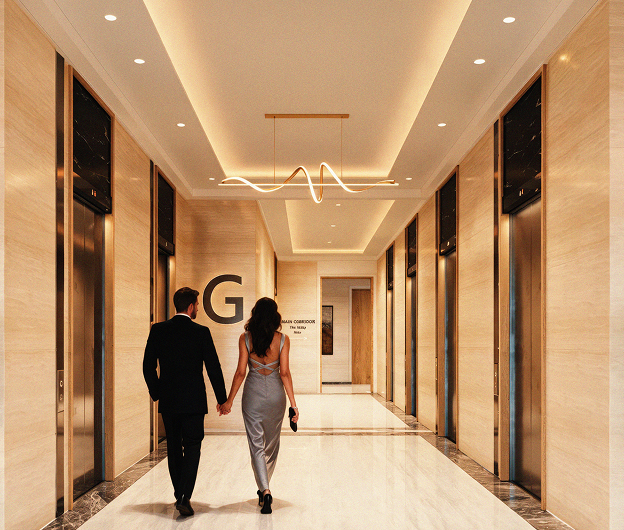
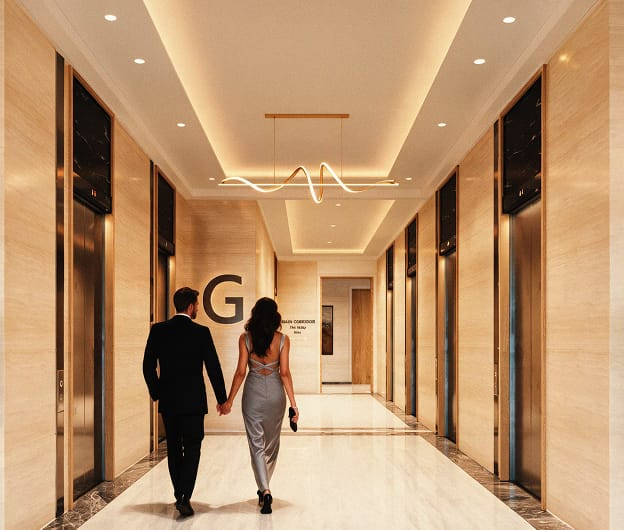
Step 0 follow-up: WebP hero/posters, compress large JPEGs, open questions
Originals moved to design-source/originals (outside public/).

diff --git a/OPEN-QUESTIONS.md b/OPEN-QUESTIONS.md
@@ -1,0 +1,51 @@
+# Open Questions
+
+Running list of everything still to confirm with the designer or client. Each item shows the
+**default currently built**, so the page works while the question is open. Spec references are to
+`LANDING_PAGE_SPEC.md`.
+
+## Assets
+
+| # | Question | Default built | Ref |
+|---|---|---|---|
+| A1 | Carousel captions taken from file names: **Boxing, Cigar Room** (rooftop), **Cafe & Library, Indoor Swimming Pool, Play Area, Squash Court, Yoga & Dance** (clubhouse 4-6). "Play Area" shows the podium exterior with an outdoor court, not an indoor room. | File-name captions | §6.7, §6.9 |
+| A2 | Slide order: design-visible slides first, then the rest alphabetically. | As described | §6.7, §6.9 |
+| A3 | Logo: both PNGs read "SKYVEN" only, without the "RESIDENCES" line seen in the design. SVG logo to follow. | `logo-header.png` / `logo-footer.png` via one `Logo` component | §6.1, §6.16, §7.3 |
+| A4 | Favicon: no emblem-only file. | Bird cropped from `logo-footer.png` | §7.3 |
+| A5 | Carousel, engineering and gallery photos are 1x exports (e.g. 808×456, mobile gallery 336×200); soft on retina screens. | Current files; 2x replacements with the same names drop straight in | §7.1 |
+| A6 | Construction Update video poster: none supplied. | YouTube thumbnail | §6.8 |
+| A7 | Mobile hero: no mobile exports of the elevation/cloud images. | Mobile elevation is a crop of the desktop image centred on the tower, matched to the 375 screenshot | §6.2 |
+| A8 | `og-image.jpg` (1200×630) not supplied. | Cropped from the hero elevation | §7.3 |
+
+## Hero scroll section
+
+| # | Question | Default built | Ref |
+|---|---|---|---|
+| H1 | Exact X/Y of each cloud and label layer (1920, 1440, 375 frames). | Positions measured from the screenshots / spec table | §6.2, §13.1 |
+| H2 | Plain parallax or a pinned/sticky reveal? | Plain parallax (no scroll hijacking) | §6.2, §13.3 |
+| H3 | Is the ~830px dark space under the Enquire card intentional? | Kept, as in the design | §6.3, §13.4 |
+
+## Rest of the page
+
+| # | Question | Default built | Ref |
+|---|---|---|---|
+| Q1 | Hosting: Vercel / Node server, or static (cPanel, S3)? | Node build (`next build && next start`), `/api/enquiry` route | §11.6, §13.5 |
+| Q2 | Final domain. | Read from `NEXT_PUBLIC_SITE_URL` (falls back to `http://localhost:3000`); set it before launch | §11.2, §13.6 |
+| Q3 | GA4 / GTM / Meta Pixel IDs. | None loaded until IDs are provided | §11.7, §13.7 |
+| Q4 | Gold headings on the cream band: `#E5D37D` or darker/gradient? | `gold-deep #B0A562` | §3.1, §13.8 |
+| Q5 | Exact font sizes and Karla weights. | Spec type scale (§3.3), weights 400/500/600/700 | §3.3, §13.9 |
+| Q6 | Budget dropdown options. | ₹6–7 Cr, ₹7–8 Cr, ₹8 Cr+ | §5.6, §13.10 |
+| Q7 | Fourth comparison row (label ends "…per floor") and what "Get detailed comparison" does. | 3 rows shown; button scrolls to the enquire form | §6.4, §13.11 |
+| Q8 | Healthcare and Lifestyle location entries. | Category headings shown with no entries | §6.10, §13.12 |
+| Q9 | Sticky header? Floating WhatsApp/call button on mobile? | Header turns sticky after the hero; no floating button | §6.1, §6.16, §13.13 |
+| Q10 | Large gaps after the closer-look video and before the footer text: animation space or spacing? | Normal section padding after the video; footer gap kept | §6.5, §9, §13.14 |
+| Q11 | Where form submissions go (CRM, email, Google Sheet). | `/api/enquiry` validates and logs; `TODO` for the integration | §10, §13.15 |
+| Q12 | Google Maps embed URL / exact pin. | Search-based embed for the address | §6.15, §13.16 |
+| Q13 | Corner radius: all sharp? | 0 everywhere | §3.4, §13.17 |
+| Q14 | "EXPLORE SKYVEN" hero button target. | Scrolls to `#usps` | §6.2 |
+| Q15 | "EXPLORE THE LOCATION" target. | Google Maps link for the address, new tab | §6.10 |
+| Q16 | Closer-look video: ~2.2:1 crop or plain 16:9? | 2.2:1 poster crop on desktop, 16:9 on mobile | §6.5 |
+| Q17 | Carousel aspect (~16:9?) and whether arrows are wanted. | Aspect of the supplied images (808×456), no arrows | §5.5 |
+| Q18 | FAQ default state: all open (as drawn) or first only? | First open | §6.13 |
+| Q19 | VideoObject `uploadDate` for each YouTube video. | Taken from the public YouTube page if available; otherwise left out until confirmed | §5.7 |
+| Q20 | Section vertical padding and the ~4.2vw carousel inset. | Spec values (140 / 120 / 64px, 4.2vw) | §3.4 |
